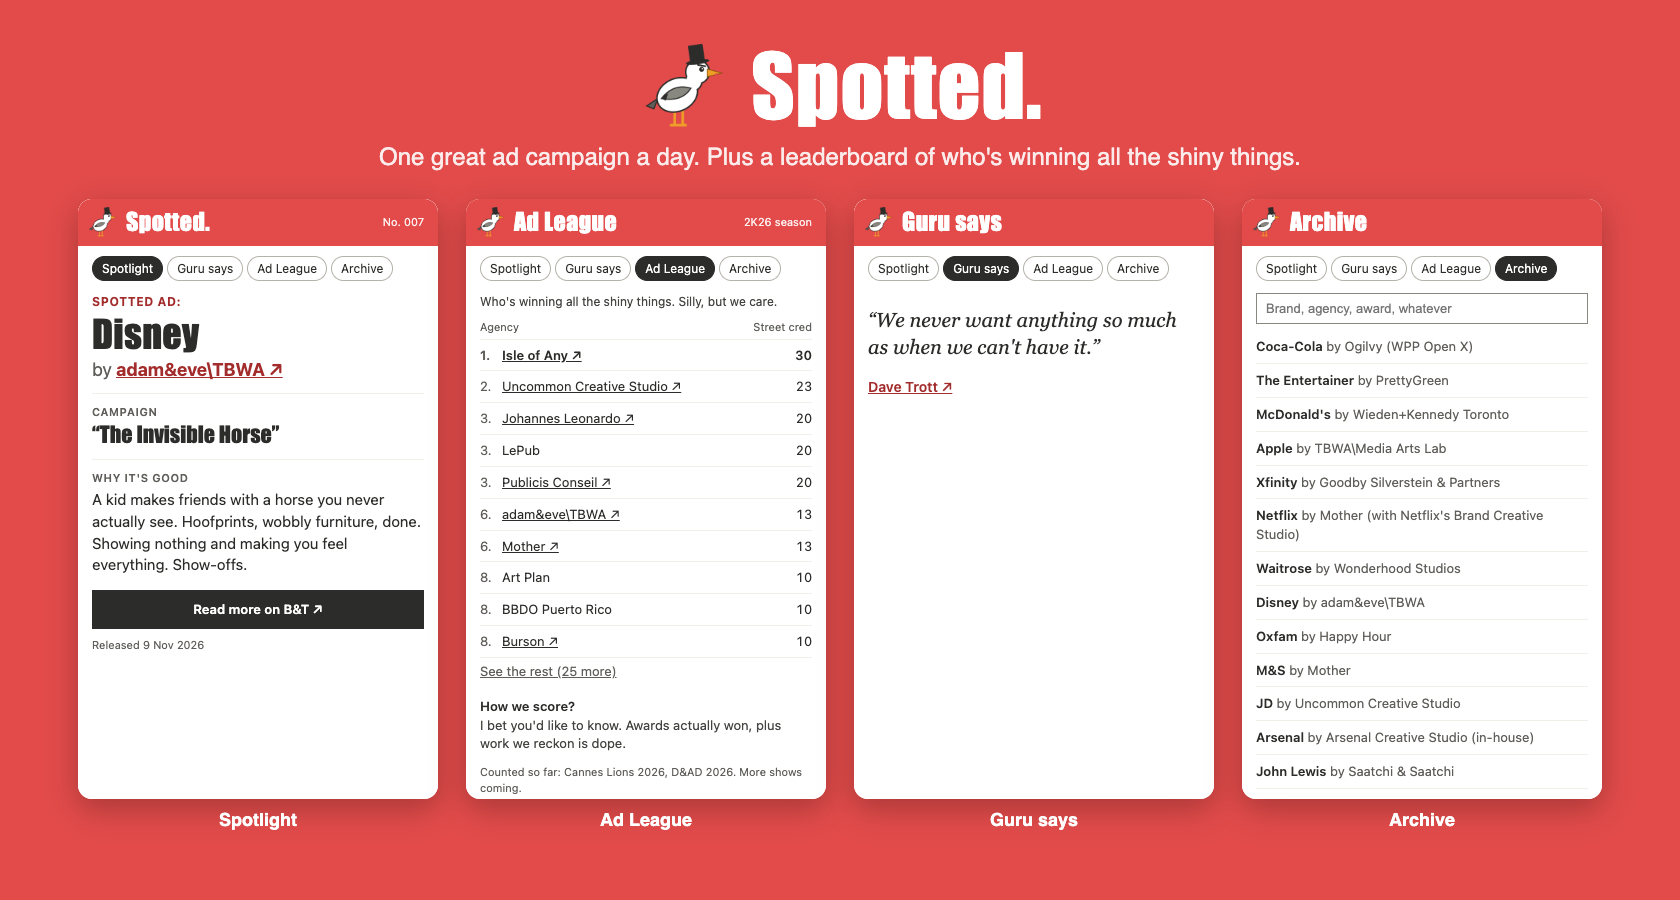
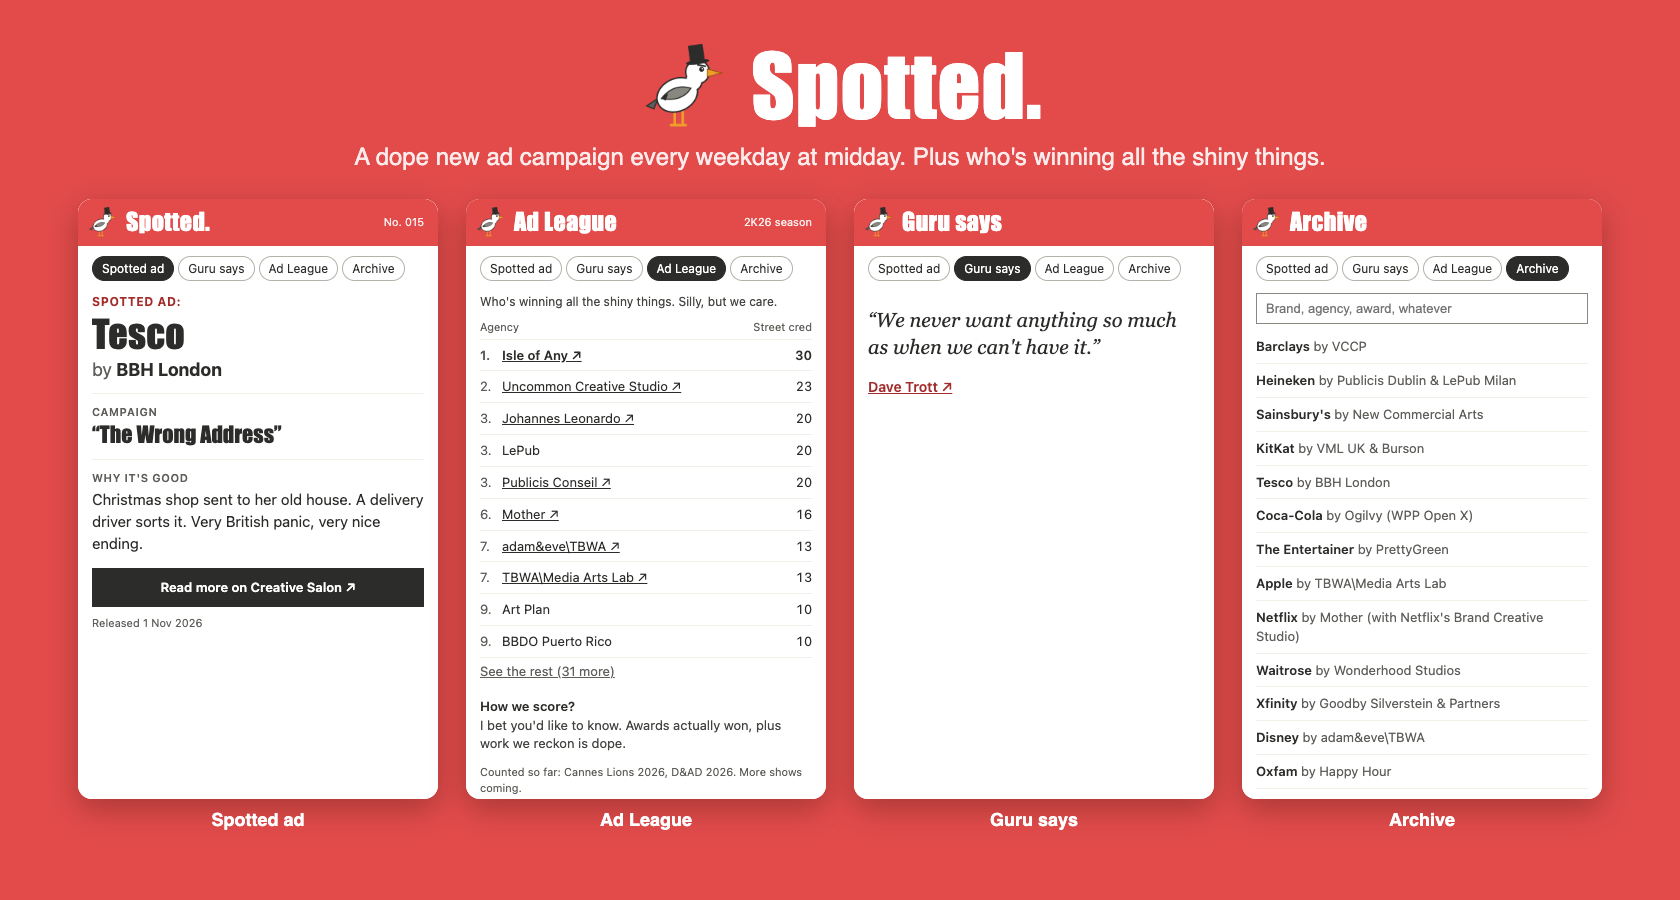
Spotted ad tab, clearer README, prize-level Ad League, store pack
- Rename the Spotlight tab to "Spotted ad"
- README: lead with the Spotted ad, the weekly rhythm and how picks are
  lined up and reviewed manually
- Ad League street cred now depends on the prize level (10 down to 1)
- Chrome Web Store screenshots, listing text and a privacy policy

diff --git a/docs/store/shot.html b/docs/store/shot.html
@@ -1,0 +1,38 @@
+<!doctype html>
+<html lang="en-GB">
+<head>
+<meta charset="utf-8">
+<title>Spotted. store screenshot</title>
+<!-- Renders the 1280x800 Chrome Web Store screenshots. Not part of the extension.
+     shot.html?date=2026-11-23&tab=spotlight&h=Headline&s=Subline -->
+<style>
+  html, body { margin: 0; }
+  body { width: 1280px; height: 800px; overflow: hidden; background: #E24B4A;
+    font-family: -apple-system, "Segoe UI", Roboto, Helvetica, Arial, sans-serif;
+    display: flex; align-items: center; justify-content: center; gap: 80px; }
+  .words { width: 560px; color: #fff; }
+  .brand { display: flex; align-items: center; gap: 14px; margin-bottom: 28px; }
+  .brand img { width: 72px; height: 72px; }
+  .brand span { font-family: Anton, Impact, sans-serif; font-size: 56px; letter-spacing: 1px; }
+  h1 { font-family: Anton, Impact, sans-serif; font-weight: 400; font-size: 64px; line-height: 1.05; margin: 0 0 18px; }
+  p { font-size: 26px; line-height: 1.35; margin: 0; color: #FCEBEB; }
+  .phone { width: 360px; height: 680px; background: #fff; border-radius: 14px; overflow: hidden; box-shadow: 0 12px 34px rgba(0,0,0,.28); }
+  iframe { width: 360px; height: 680px; border: 0; display: block; }
+</style>
+</head>
+<body>
+  <div class="words">
+    <div class="brand"><img src="../../icons/gull-512.png" alt=""><span>Spotted.</span></div>
+    <h1 id="h"></h1>
+    <p id="s"></p>
+  </div>
+  <div class="phone"><iframe id="f"></iframe></div>
+  <script>
+    const q = new URLSearchParams(location.search);
+    document.getElementById('h').textContent = q.get('h') || '';
+    document.getElementById('s').textContent = q.get('s') || '';
+    const extra = q.get('quote') ? '&quote=' + q.get('quote') : '';
+    document.getElementById('f').src = '../../popup.html?date=' + (q.get('date') || '2026-11-23') + '&tab=' + (q.get('tab') || 'spotlight') + extra;
+  </script>
+</body>
+</html>

diff --git a/docs/cover.html b/docs/cover.html
@@ -23,12 +23,12 @@
 </head>
 <body>
   <header><img src="../icons/gull-512.png" alt=""><h1>Spotted.</h1></header>
-  <p class="tag">One great ad campaign a day. Plus a leaderboard of who's winning all the shiny things.</p>
+  <p class="tag">A dope new ad campaign every weekday at midday. Plus who's winning all the shiny things.</p>
   <div class="row">
-    <div><div class="phone"><iframe src="../popup.html?date=2026-11-21"></iframe></div><div class="cap">Spotlight</div></div>
-    <div><div class="phone"><iframe src="../popup.html?date=2026-11-21&tab=league"></iframe></div><div class="cap">Ad League</div></div>
-    <div><div class="phone"><iframe src="../popup.html?date=2026-11-21&tab=guru&quote=8"></iframe></div><div class="cap">Guru says</div></div>
-    <div><div class="phone"><iframe src="../popup.html?date=2026-11-28&tab=archive"></iframe></div><div class="cap">Archive</div></div>
+    <div><div class="phone"><iframe src="../popup.html?date=2026-11-23"></iframe></div><div class="cap">Spotted ad</div></div>
+    <div><div class="phone"><iframe src="../popup.html?date=2026-11-23&tab=league"></iframe></div><div class="cap">Ad League</div></div>
+    <div><div class="phone"><iframe src="../popup.html?date=2026-11-23&tab=guru&quote=8"></iframe></div><div class="cap">Guru says</div></div>
+    <div><div class="phone"><iframe src="../popup.html?date=2026-11-27&tab=archive"></iframe></div><div class="cap">Archive</div></div>
   </div>
 </body>
 </html>

diff --git a/lib/data.js b/lib/data.js
@@ -95,7 +95,17 @@ export function issueNumber(spots, pick) {
   return sorted.indexOf(pick) + 1;
 }
 
-// Street cred = official top prizes + times featured in Spotted (so far).
+// Points for one award win: depends on the level of the prize (up to 10),
+// and any prize at a smaller show counts 1.
+export function prizePoints(league, w) {
+  const pts = league.points;
+  if ((league.smallShows || []).some((s) => (w.show || '').startsWith(s))) return pts.smallShow ?? 1;
+  const prize = (w.prize || '').toLowerCase();
+  for (const [name, value] of Object.entries(pts.prizes || {})) if (prize.includes(name)) return value;
+  return pts.topPrize;
+}
+
+// Street cred = points for official award wins + times featured in Spotted (so far).
 export function streetCred(league, spots, today) {
   const table = new Map();
   const row = (key) => {
@@ -108,7 +118,7 @@ export function streetCred(league, spots, today) {
   for (const w of league.wins) {
     const r = row(w.agencyKey);
     r.prizes += 1;
-    r.cred += league.points.topPrize;
+    r.cred += prizePoints(league, w);
   }
   for (const s of pastPicks(spots, today)) {
     if (!s.agencyKey) continue;

diff --git a/popup.html b/popup.html
@@ -13,7 +13,7 @@
   </header>
 
   <nav class="tabs" role="tablist" aria-label="Sections">
-    <button role="tab" data-tab="spotlight" aria-selected="true">Spotlight</button>
+    <button role="tab" data-tab="spotlight" aria-selected="true">Spotted ad</button>
     <button role="tab" data-tab="guru" aria-selected="false">Guru says</button>
     <button role="tab" data-tab="league" aria-selected="false">Ad League</button>
     <button role="tab" data-tab="archive" aria-selected="false">Archive</button>

diff --git a/popup.js b/popup.js
@@ -127,7 +127,7 @@ function renderLeague() {
   list.replaceChildren(...shown.map((r, idx) => {
     if (r.cred !== prev) { rank = idx + 1; prev = r.cred; }
     const why = [
-      r.prizes ? `${r.prizes} top prize${r.prizes > 1 ? 's' : ''}` : null,
+      r.prizes ? `${r.prizes} award${r.prizes > 1 ? 's' : ''}` : null,
       r.features ? `spotted ${r.features}×` : null,
     ].filter(Boolean).join(', ');
     return el('li', { title: why },

diff --git a/README.md b/README.md
@@ -1,10 +1,14 @@
 # Spotted.
 
-![Spotted. Chrome extension: Spotlight, Ad League, Guru says and Archive screens](docs/cover.png)
+![Spotted. Chrome extension: the Spotted ad, Ad League, Guru says and Archive screens](docs/cover.png)
 
-**A dope new ad campaign every day at midday, in a Chrome extension. Plus the Ad League: a cheeky league table of which agencies are actually winning all the shiny things.**
+**A dope new ad campaign revealed every weekday at midday, right in your Chrome toolbar.**
 
-Who's winning all the shiny things? Silly, but we care.
+- **Monday, Wednesday and Friday:** a recent campaign, launched in the last few weeks.
+- **Throwback Tuesday and Throwback Thursday:** a campaign from the last year that won something big. Not new. Still slaps.
+- **Weekends off.** Open it on a Saturday and the gull tells you to go outside.
+
+If you're in marketing or advertising and you like ads, give it a follow. Or don't. We don't care.
 
 ---
 
@@ -12,27 +16,24 @@ Who's winning all the shiny things? Silly, but we care.
 
 Good marketers keep a swipe file: a folder of ads they wish they'd made. I've kept one for years.
 
-But keeping up is a faff. The good stuff is spread across The Drum, Adweek, Ad Age, Campaign, LBB, Creative Review and a dozen podcasts and LinkedIn feeds. Most days you either doom-scroll trade press or miss the work everyone's talking about.
+But keeping up is a faff. The good stuff is spread across publications, award shows, LinkedIn, YouTube, influencers and podcasts. Most days you either doom-scroll the lot or miss the work everyone's talking about.
 
-**Spotted. is a swipe file that fills itself.** One campaign a day, picked for you, in two lines, with a link to read more.
+**Spotted. is a swipe file that fills itself.** We go through all of it, review it, and bring you one a day: two lines on why it's good, and a link to see more.
 
-## What it does
+## The Spotted ad
 
-Click the seagull in your Chrome toolbar and you get four tabs:
+Click the seagull in your Chrome toolbar and you get the day's ad:
 
-| Tab | What you get |
-|---|---|
-| **Spotlight** | One campaign: **brand**, agency (linked), campaign name, an award badge only if it won a major award, two blunt lines on why it's good, and a link to the source article. |
-| **Guru says** | A line from an ad legend: Rory Sutherland, David Ogilvy, Leo Burnett, Dave Trott, Scott Galloway. Every quote is checked against a real source. |
-| **Ad League** | The 2K26 season agency league table, ranked by *street cred*. |
-| **Archive** | Every past pick. Search by brand, agency, award or anything else. |
+- **The brand**, big.
+- **Who made it:** the agency, or the brand's in-house team.
+- **The campaign name**, with a yellow badge only if it's won a major award.
+- **Why it's good**, in two blunt lines.
+- **A link** to read more on a free-to-read site.
 
 Plus:
-- **A yellow dot** on the icon when there's a new pick you haven't seen.
-- **A midday nudge**: a Chrome notification at 12:00 ("Disney by adam&eve\\TBWA") when the new campaign lands.
-- **Throwback Tuesday and Throwback Thursday.** Two days a week it's a major-award winner from the last year instead of something new. Labelled "Throwback Thursday: still slaps".
-- **Weekends off.** No pings on Saturday or Sunday. Open it anyway and the gull tells you to go outside.
-- **Nothing stale.** A pick is never shown more than four weeks after the campaign launched or was covered. If there's nothing fresh, the gull goes on a break.
+- **A yellow dot** on the icon when there's a new ad you haven't seen.
+- **A midday ping:** a notification at 12:00 on weekdays, like "Tesco by BBH London".
+- **Nothing stale.** A fresh pick is never shown more than four weeks after the campaign launched.
 
 **No tracking, no accounts, no API keys** inside the extension. It reads a public list of picks and that's it.
 
@@ -54,48 +55,63 @@ To update later, download the ZIP again, replace the folder, and press the ↻ r
 
 ```mermaid
 flowchart LR
-    A[Trade press, award results, podcasts] -->|researched and fact-checked| B[data/spotlights.json in this repo]
-    B -->|GitHub Pages| C[Public copy of the picks]
-    C -->|read once a day| D[Spotted. in your Chrome]
-    B -.->|copy bundled inside, in case you're offline| D
-    E[Weekly Claude routine, coming next] -.->|lines up next week's 5 picks, checked automatically| B
+    A[Publications, award shows, LinkedIn, YouTube, influencers, podcasts] -->|every Sunday| B[Claude lines up several picks for the week]
+    B --> C[Each ad reviewed manually to make sure it's legit]
+    C -->|approved| D[data/spotlights.json in this repo]
+    D -->|GitHub Pages| E[Public copy of the picks]
+    E -->|checked daily| F[Spotted. in your Chrome]
+    D -.->|copy bundled inside, in case you're offline| F
 ```
 
-- All the picks live in [`data/spotlights.json`](data/spotlights.json). One entry per day.
-- The extension reads the latest copy from GitHub Pages, and falls back to the copy bundled inside it if you're offline.
-- A [checker](scripts/validate.py) runs on every change and blocks anything broken: missing facts, a link that isn't secure, two picks on one day, or a campaign more than four weeks old.
-- New picks will be lined up each week by a scheduled Claude routine. See [AUTOMATION.md](AUTOMATION.md).
+1. **Every Sunday, a scheduled Claude routine lines up the next week's picks to review:** three fresh campaigns and two throwbacks.
+2. **Each ad is reviewed manually to make sure it's legit.** The brand, the agency, the campaign name and the date all have to be confirmed in the source, and the link has to work.
+3. **An automatic [checker](scripts/validate.py) runs too.** It blocks missing facts, insecure links, two picks on one day, weekend picks, minor awards, and anything more than four weeks old.
+4. **Once approved, the week goes live.** Every installed copy of Spotted. picks it up from GitHub Pages, and falls back to the copy bundled inside if you're offline.
 
-## How a campaign gets picked
+The details are in [AUTOMATION.md](AUTOMATION.md).
 
-- **Fresh:** launched or covered in the last two to four weeks. Never older than four.
-- **Global, with a lean towards the UK, US and Europe.** Anything genuinely interesting from anywhere gets in.
-- **Fact-checked:** brand, agency, campaign name and date are all confirmed in the source article before it goes in. The source link has to work.
-- **Our words:** the two lines are written fresh. No copying article text.
-- **Award badge only for the big ones.** A yellow badge shows up only for a major award: a Grand Prix, Titanium, Gold, Silver or Bronze at Cannes Lions, a D&AD Pencil, a One Show Pencil, a Clio, an Effie or an IPA Effectiveness Award. Shortlists and finalists don't count. No major award, no badge. Most big shows run in the first half of the year, so plenty of great November work has no badge yet.
+## What makes the cut
+
+- **Fresh:** launched or first covered in the last few weeks. Never older than four.
+- **Throwbacks:** won a major creative or effectiveness award in the last year.
+- **Global, leaning UK, US and Europe.** Anything genuinely interesting from anywhere gets in.
+- **Agency or in-house, always named.** If no source says who made it, it doesn't go in. We never guess.
+- **Our words:** the two lines are written fresh, never copied from an article.
+- **Award badge only for the big ones:** a Grand Prix, Titanium, Gold, Silver or Bronze at Cannes Lions, a D&AD Pencil, a One Show Pencil, a Clio, an Effie or an IPA Effectiveness Award. Shortlists and finalists don't count.
 
 ## The Ad League (2K26 season)
 
-The popup only says *"How we score? I bet you'd like to know."* Here's the boring version:
+A cheeky league table of which agencies are actually winning all the shiny things. The popup only says *"How we score? I bet you'd like to know."* Here's the boring version.
 
-| What | Street cred |
+**Street cred depends on the level of the prize.** Some prizes are much bigger than others, so they're worth more:
+
+| Prize | Street cred |
 |---|---|
-| A top prize at a counted show (Cannes Lions Grand Prix or Titanium, D&AD Black Pencil) | **10** |
-| Being featured in Spotted. | **3** each time |
+| The very top: a Grand Prix or Titanium at Cannes Lions, a D&AD Black Pencil, a Grand Effie, an IPA Effectiveness Grand Prix | **10** |
+| A Gold, or a D&AD Yellow Pencil | **6** |
+| A Silver | **4** |
+| A Bronze | **2** |
+| Anything at a smaller show (The Drum Awards, Campaign Big Awards and the like) | **1** |
+| Being the Spotted ad of the day | **3** each time |
 
-- **Counted so far:** Cannes Lions 2026 and D&AD 2026.
-- **Not yet counted:** The One Show, Clios, Effies, Epica, IPA Effectiveness, Kantar Creative Effectiveness, LIA, ADC, Webbys and Eurobest (December). These get added as each show's results are tallied.
+**What it looks at:**
+- **Creative awards:** Cannes Lions, D&AD, The One Show, the Clios, ADC, Epica, LIA, Eurobest, Spikes Asia, Dubai Lynx and the Webbys.
+- **Effectiveness awards:** the IPA Effectiveness Awards, the Effies, Cannes Creative Effectiveness and Kantar Creative Effectiveness, with WARC for the data.
+- **Smaller national shows:** The Drum Awards, Campaign Big Awards, Creative Circle and similar.
+
+**Counted so far:** the top prizes at Cannes Lions 2026 and D&AD 2026. The other shows, and the lower prize levels, get added as their official results are tallied.
+
 - Credit goes to the lead agency named in the official results.
-- **No predicted or made-up wins, ever.** Every win in [`data/league.json`](data/league.json) is from the official 2026 results, cross-checked against [Creative Review's Cannes write-up](https://www.creativereview.co.uk/cannes-lions-2026-all-the-grand-prix-winners/) and [Adweek's D&AD write-up](https://www.adweek.com/creativity/these-are-the-4-black-pencil-winners-of-the-2026-dad-awards/).
+- **No predicted or made-up wins, ever.** Every win in [`data/league.json`](data/league.json) comes from official results, cross-checked against [Creative Review's Cannes write-up](https://www.creativereview.co.uk/cannes-lions-2026-all-the-grand-prix-winners/) and [Adweek's D&AD write-up](https://www.adweek.com/creativity/these-are-the-4-black-pencil-winners-of-the-2026-dad-awards/).
 - The joke is on the awards circus, not on anyone's work. For the grown-up version, see the [WARC Rankings](https://www.warc.com/en/data-benchmarks/rankings).
 
-## Where the picks come from
+## Also in the popup
 
-**Trade press:** The Drum, Adweek, Ad Age, Campaign, LBB (Little Black Book), Creative Review, Ads of the World, shots, Contagious, Muse by Clio, Marketing Week, Marketing Dive, B&T.
+**Guru says** (a checked quote from an ad legend, CMO or founder) and the **Archive** (every past pick, searchable).
 
-**Award shows:** Cannes Lions, D&AD, The One Show, Clio Awards, Effie Worldwide, Epica, Kantar Creative Effectiveness, IPA Effectiveness Awards, LIA, ADC, Webby Awards, Eurobest, Spikes Asia, Dubai Lynx, The Drum Awards, plus WARC for effectiveness data. (Interbrand is brand valuation rather than campaign awards, so it's context only.)
+## Worth following
 
-**Worth following** (they can't be pulled in automatically, but you should listen or follow anyway):
+Not pulled in automatically, but you should listen or follow anyway:
 - [Breaking & Entering Media](https://www.linkedin.com/company/breaking-entering-media/posts/) on LinkedIn
 - **Uncensored CMO** (podcast)
 - **HUNGRY.** with Dan Pope (podcast on challenger food and drink brands)
@@ -108,12 +124,13 @@ manifest.json        Chrome extension settings (Manifest V3)
 popup.html/.css/.js  The popup you see
 background.js        The midday nudge and the yellow dot
 lib/                 Shared code: loading data, dates, street cred maths
-data/                The picks, quotes and league table (this is what the daily job updates)
+data/                The picks, quotes and league table (this is what the weekly job updates)
 icons/               The gull, at Chrome's icon sizes
 scripts/validate.py  The data checker
-docs/                README images
+docs/                README cover, store screenshots and listing text
 DESIGN.md            Design decisions: name, look, voice, screens
-AUTOMATION.md        The plan for daily automatic picks
+AUTOMATION.md        The plan for the weekly picks
+PRIVACY.md           Privacy policy (it collects nothing)
 ```
 
 ## Built by

diff --git a/docs/store/LISTING.md b/docs/store/LISTING.md
@@ -1,0 +1,51 @@
+# Chrome Web Store listing: copy and paste
+
+## Store listing tab
+
+- **Name** (from the manifest): Spotted. Dope Daily Ad Campaigns
+- **Summary** (from the manifest): A dope new ad campaign revealed every weekday at midday. Who made it (agency or in-house) and why it's good.
+- **Category:** Fun (or the closest match the dashboard offers, e.g. Lifestyle)
+- **Language:** English (UK)
+- **Store icon:** `icons/icon128.png`
+- **Screenshots** (1280x800, in this order): `docs/store/1-today.png`, `2-throwback.png`, `3-league.png`, `4-guru.png`, `5-weekend.png`
+- **Description:**
+
+```
+Spotted. puts one great ad campaign in your browser every weekday at midday.
+
+Click the gull and you get:
+• The brand, and who made it: the agency, or the in-house team
+• Why it's good, in two blunt lines
+• A link to read more on a free-to-read trade site
+• An award badge if it's won something big (Cannes Lions, D&AD, Effies, IPA)
+
+Every week:
+• Monday, Wednesday, Friday: something fresh, launched in the last few weeks
+• Throwback Tuesday and Throwback Thursday: big award winners from the last year. Not new. Still slaps.
+• Weekends off. Open it on a Saturday and the gull will tell you to go outside.
+
+Also inside:
+• Guru says: a quote from an ad legend, CMO or founder. Ogilvy, Hegarty, Cialdini, Jobs and friends. Every quote checked against a source.
+• The Ad League: who's winning all the shiny things. Silly, but we care.
+• Archive: every past pick, searchable by brand or agency.
+
+No accounts. No tracking. No ads. It reads a public list of picks and that's it.
+
+Made for marketers, creatives, strategists and anyone who likes a good ad.
+```
+
+## Privacy practices tab
+
+- **Single purpose:** Shows one recent advertising campaign each weekday, with who made it and why it's good.
+- **Permission: storage:** Remembers, on your computer only, whether you've seen today's pick (for the "new" dot) and keeps an offline copy of the picks.
+- **Permission: alarms:** Wakes the extension at midday to check for the new pick, and hourly to update the "new" dot.
+- **Permission: notifications:** Shows one midday notification on weekdays with the brand and agency of the new pick.
+- **Remote code:** No. All code is inside the extension. It only downloads a JSON data file.
+- **Data usage:** tick nothing. Spotted. collects no user data. Tick the three certification boxes.
+- **Privacy policy URL:** https://github.com/georgepohl2-design/spotted-daily-ads/blob/main/PRIVACY.md
+
+## Distribution tab
+
+- **Visibility:** Public (or Unlisted first, if you want to test the store version with friends)
+- **Regions:** All regions
+- **Price:** Free

diff --git a/PRIVACY.md b/PRIVACY.md
@@ -1,0 +1,14 @@
+# Spotted. privacy policy
+
+Last updated: 23 November 2026
+
+**Short version: Spotted. collects nothing about you.**
+
+- **No accounts, no tracking, no analytics, no ads.**
+- **No personal data leaves your browser.** Spotted. never reads your browsing history, your tabs or the pages you visit.
+- **What it downloads:** once a day it fetches a public list of ad picks, quotes and awards from `georgepohl2-design.github.io`. That request carries no information about you beyond what any web request does (your IP address reaches GitHub's servers, which is covered by [GitHub's privacy statement](https://docs.github.com/en/site-policy/privacy-policies/github-general-privacy-statement)).
+- **What it stores, only on your computer** (Chrome's extension storage): the date you last opened it (for the yellow "new pick" dot), the last quote shown (so you don't get the same one twice) and a cached copy of the picks for when you're offline. Remove the extension and it's all gone.
+- **Notifications** are made by your own Chrome on your own computer. Nothing is sent to a server to do that.
+- **Links** in the popup open the publisher's or brand's own site, which has its own privacy policy.
+
+Questions: open an issue at https://github.com/georgepohl2-design/spotted-daily-ads/issues

diff --git a/DESIGN.md b/DESIGN.md
@@ -9,7 +9,7 @@ Agreed on 21 Nov 2026, through several rounds of wireframes.
 - **Voice (everywhere):** chill, blunt, to the point, a bit "can't be bothered". Short sentences. Example: "People want to steal KitKats. We get it. They made an ad about it. Fair." Facts stay straight; the attitude lives in the words around them. Joke about the awards circus, never about named agencies' work or people.
 
 ## Popup (about 360px wide), four tabs
-1. **Spotlight** (not "Today": it's a spotlight, not the news)
+1. **Spotted ad** (renamed from "Spotlight" on 23 Nov: it matches the name of the thing)
    - small red label: "SPOTTED AD:", then the brand (big), then "by {agency}" (bold, 18px, linked), then labelled "Campaign" and "Why it's good" rows split by thin lines
    - **Brand name**: the biggest thing on the card
    - by **Agency name** (smaller, links to the agency's website)
